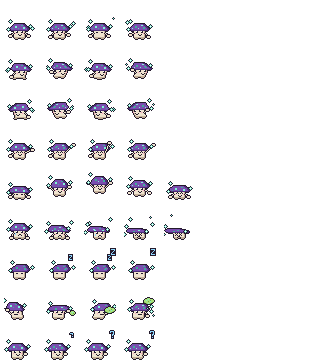
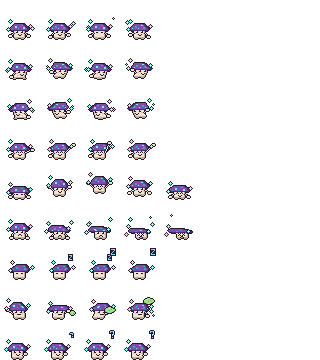
fix(arte): Cogumelo — esporos laterais sempre inteiros no quadro
O extra tem 27 colunas e segue o topo do chapéu; quando o corpo ia à esquerda
(recuo do golpe, failed final) o esporo esquerdo saía cortado, e no sopro o direito
passava da borda. Recuo do golpe com menos inclinação, sopro com tilt 1 e o failed
final deslizando 1-3 px para a direita: o topo do chapéu fica entre x=13 e 18.
Teste: extra inteiro no quadro em todo estado.

diff --git a/herois/cogumelo.py b/herois/cogumelo.py
@@ -138,21 +138,21 @@ _SPECS = {
     "failed": [dict(olhos="triste", bracos=(((20, 25), (23, 29)), ((10, 25), (7, 29))), por=((LAGRIMA, 11, 25),)),
                dict(olhos="triste", h=8, hc=6, chapeu=10, tilt=-2, brilho=1,
                     bracos=(((20, 26), (23, 29)), ((10, 26), (7, 29))), por=((ESPORO, 25, 12),)),
-               dict(olhos="triste", h=8, hc=5, chapeu=10, tilt=-3, por=((LAGRIMA, 11, 26), (ESPORO, 24, 9),
+               dict(cx=16, olhos="triste", h=8, hc=5, chapeu=10, tilt=-3, por=((LAGRIMA, 11, 26), (ESPORO, 24, 9),
                                                                       (ESPORO, 3, 13))),
-               dict(olhos="x", h=7, hc=4, chapeu=10, tilt=-3, lean=-1, brilho=1,
+               dict(cx=17, olhos="x", h=7, hc=4, chapeu=10, tilt=-3, lean=-1, brilho=1,
                     por=((ESPORO_P, 25, 8), (ESPORO, 4, 9), (ESPORO, 26, 14))),
-               dict(olhos="x", h=7, hc=4, chapeu=11, tilt=-4, lean=-1, brilho=2, por=((ESPORO_P, 6, 6),))],
+               dict(cx=18, olhos="x", h=7, hc=4, chapeu=11, tilt=-4, lean=-1, brilho=2, por=((ESPORO_P, 6, 6),))],
     # cochila com o chapéu caído para a frente, "z" subindo
     "waiting": [dict(h=8, olhos="fechado", tilt=2, brilho=2),
                 dict(h=8, olhos="fechado", tilt=3, brilho=2, por=((Z_P, 24, 6),)),
                 dict(h=8, olhos="fechado", tilt=3, brilho=2, por=((Z_P, 23, 6), (Z_G, 26, 0))),
                 dict(h=8, olhos="fechado", tilt=2, brilho=2, por=((Z_G, 26, 0),))],
     # golpe: puxa o braço, espreme o chapéu e sopra uma nuvem de esporos que se espalha
-    "running": [dict(cx=13, lean=-2, tilt=-2, hc=8, chapeu=8, olhos="bravo", bracos=(((8, 25), (3, 21)),)),
+    "running": [dict(cx=15, lean=-1, tilt=-1, hc=8, chapeu=8, olhos="bravo", bracos=(((8, 25), (3, 21)),)),
                 dict(cx=14, lean=1, hc=5, chapeu=11, olhos="bravo", brilho=1, bracos=(((19, 24), (24, 22)),),
                      por=((PUFF, 25, 22),)),
-                dict(cx=14, lean=3, tilt=2, olhos="bravo", bracos=(((19, 24), (22, 24)),),
+                dict(cx=14, lean=3, tilt=1, olhos="bravo", bracos=(((19, 24), (22, 24)),),
                      por=((NUVEM, 20, 18),)),
                 dict(cx=14, lean=1, tilt=1, olhos="bravo", brilho=1, bracos=(((19, 24), (23, 27)),),
                      por=((NUVEM, 19, 9), (ESPORO, 25, 21), (ESPORO_P, 28, 26), (ESPORO_P, 22, 19)))],
@@ -178,7 +178,8 @@ def _extra(pecas, w=27, h=14):
     return ["".join(l) for l in g]
 
 
-# esporos brilhando em volta do chapéu (o topo do chapéu fica na linha 6, centrado na coluna 13)
+# esporos brilhando em volta do chapéu (o topo do chapéu fica na linha 6, centrado na coluna 13); o extra tem 27
+# colunas, então o topo do chapéu (ct + tilt) fica entre x=13 e x=18 em todo quadro para os esporos caberem
 _BRILHO = ((ESPORO, 2, 1), (ESPORO, 22, 6), (ESPORO, 0, 9))
 ESPOROS = _extra(_BRILHO)
 # ancião: cogumelinhos brotando do topo do chapéu e dois esporos dos lados

diff --git a/tests/test_folha.py b/tests/test_folha.py
@@ -333,6 +333,7 @@ def test_heroi_cogumelo():
     for i in range(3):
         ult = montar.estados(cg, i)["failed"][-1]
         assert sum(ch != "." for l in ult for ch in l) >= 40, i
+    extra_dentro(cg)   # esporos laterais inteiros, mesmo com o corpo indo para a esquerda
 
 
 test_heroi_cogumelo()
